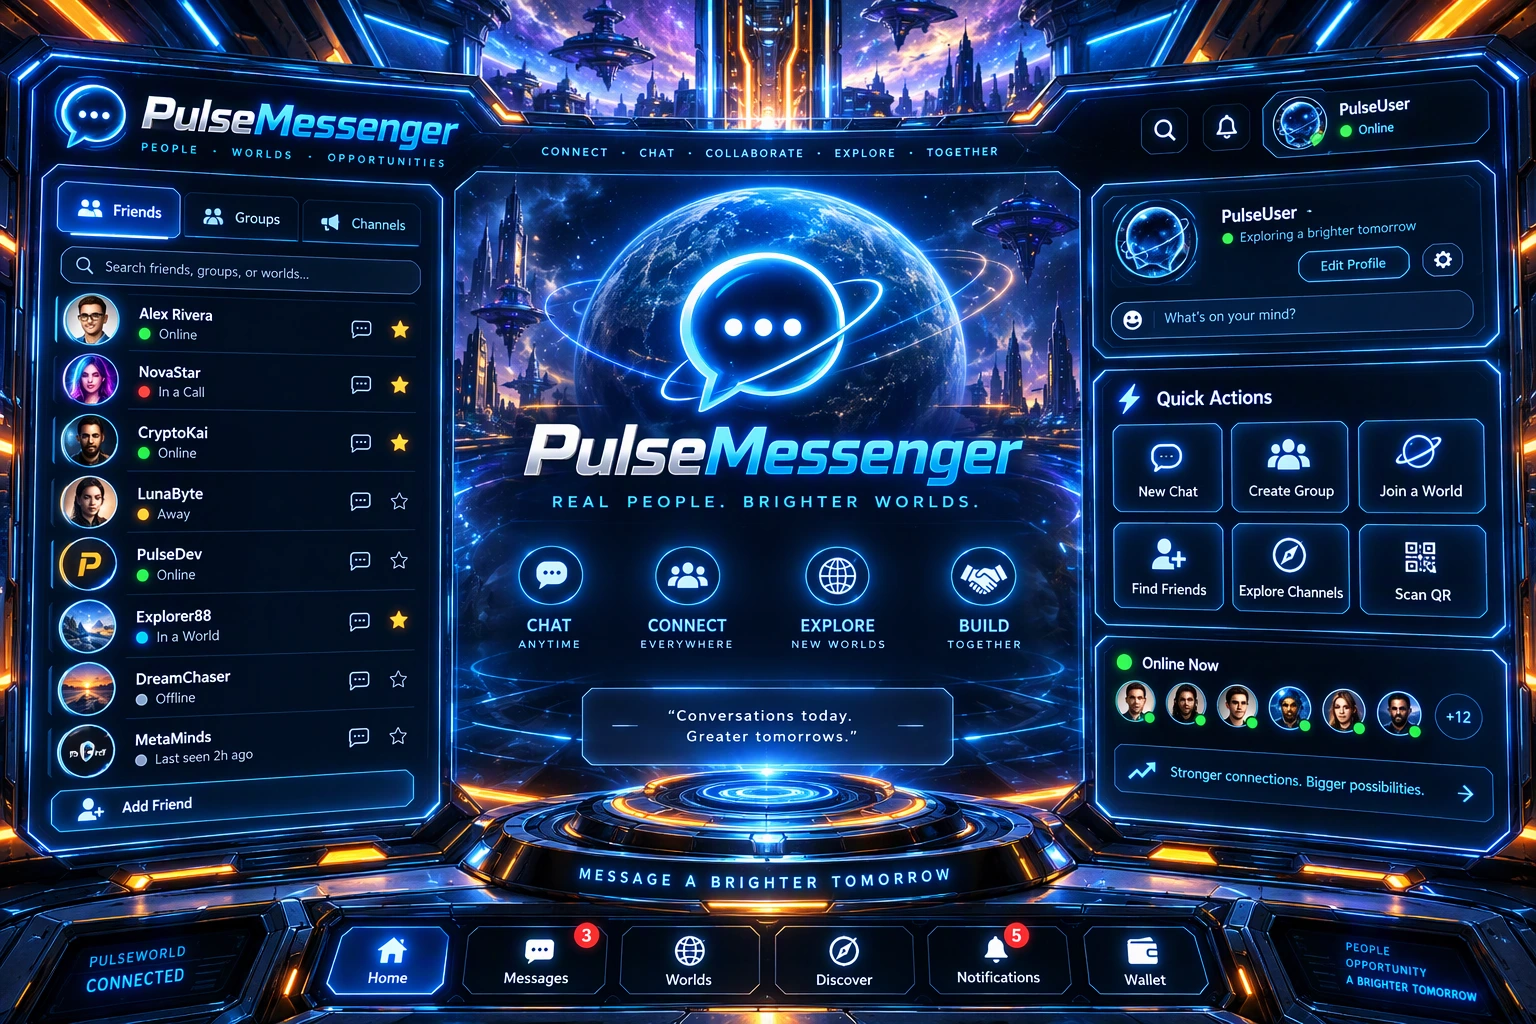
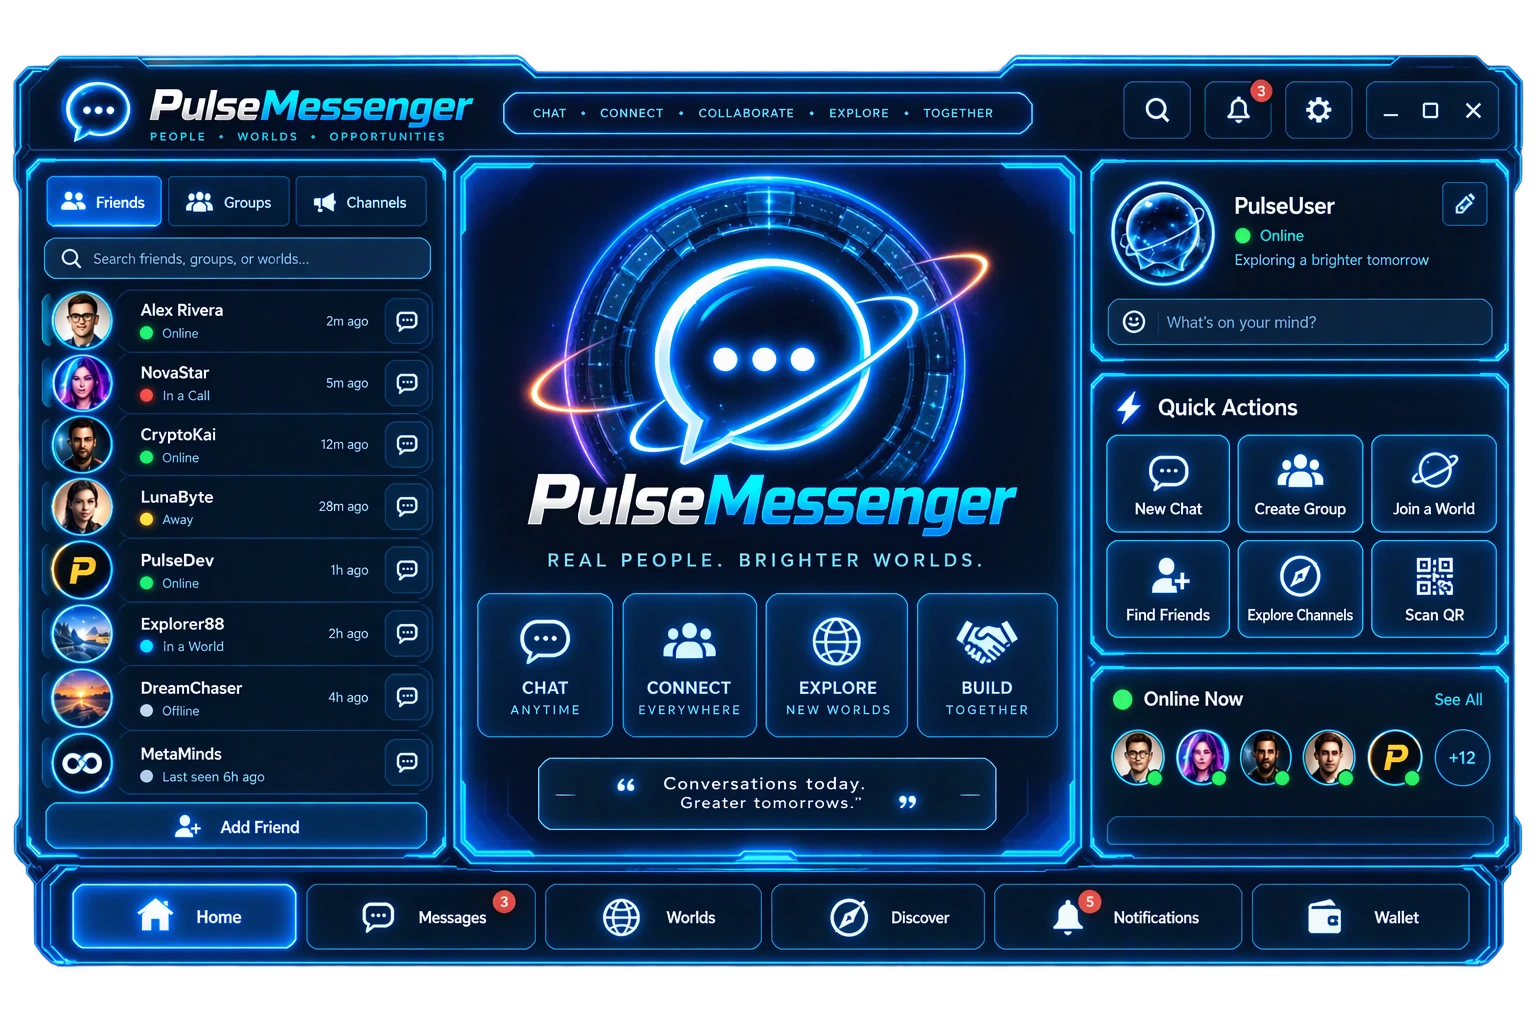
messengerinnerpanel

diff --git a/PULSE-BROWSER/PBFrontPage.js b/PULSE-BROWSER/PBFrontPage.js
@@ -2421,7 +2421,7 @@ async function GetThisMessengerDone() {
     position: 'relative',
     width: '100vw',
     height: '100vh',
-    backgroundImage: 'url("your-pulsemessenger-bg.png")',
+    backgroundImage: 'url("PulseMessengerDisplay.webp")',
     backgroundSize: 'cover',
     backgroundPosition: 'center',
     perspective: '1200px', // Essential: creates the 3D depth effect
@@ -2544,7 +2544,6 @@ async function GetThisMessengerDone() {
       }, 0);
       
     } else {
-      await GetThisMessengerDone();
       // ——— Turn OFF (restore original) ———
       pbPulseMessenger.id = "pbPulseMessenger";
       pbPulseMessenger.className = "pbPulseMessenger";          // or put back any original class if you had one
@@ -2597,7 +2596,13 @@ async function GetThisMessengerDone() {
         }, 0);
       } else {
         MessengerHidden = false;
-        await GetThisMessengerDone();
+        messengerinnerpanel.style.backgroundImage = `url("PulseMessengerDisplay.webp")`;
+        setTimeout(() => {
+          messengerinnerpanel.style.backgroundImage = `url("PulseMessengerTalk.webp")`;
+        }, 400);
+        setTimeout(() => {
+          messengerinnerpanel.style.backgroundImage = `url("PulseMessengerConsole.webp")`;
+        }, 1000);
         // ——— Turn OFF (restore original) ———
         pbPulseMessenger.id = "pbPulseMessenger";
         pbPulseMessenger.className = "pbPulseMessenger";          // or put back any original class if you had one

diff --git a/PULSE-BROWSER/PBFrontPage.html b/PULSE-BROWSER/PBFrontPage.html
@@ -16,7 +16,8 @@
   <link rel="preload" as="image" href="PulseWorldEntrancePulseGPUPulseEarn.png" />
   <link rel="preload" as="image" href="PulseWorldSplash512.png" />
   <link rel="preload" as="image" href="PulseOSBubbles.png" />
-  <link rel="preload" as="image" href="PulseMessengerDisplay.webp" />
+  <link rel="preload" as="image" href="PulseMessengerDisplay.webp" />  
+  <link rel="preload" as="image" href="PulseMessengerConsole.webp" />
   <link rel="preload" as="image" href="PulseResume.webp" />
   <link rel="preload" as="image" href="PulseStop.webp" />
   <link rel="preload" as="image" href="PulseReset.webp" />
@@ -229,7 +230,7 @@
     .messenger-panel {
       position: fixed;
       margin: 14px 14px;
-      top: 39vh;
+      top: 40vh;
       inset-inline: 0;
       margin-inline: auto;
       height: 535px;
@@ -246,7 +247,7 @@
     }
 
     .messenger-inner-panel {
-      background-image: url("PulseMessengerDisplay.webp");
+      background-image: url("PulseMessengerConsole.webp");
       background-size: cover;
       background-position: center;
       border-radius: 30px;
